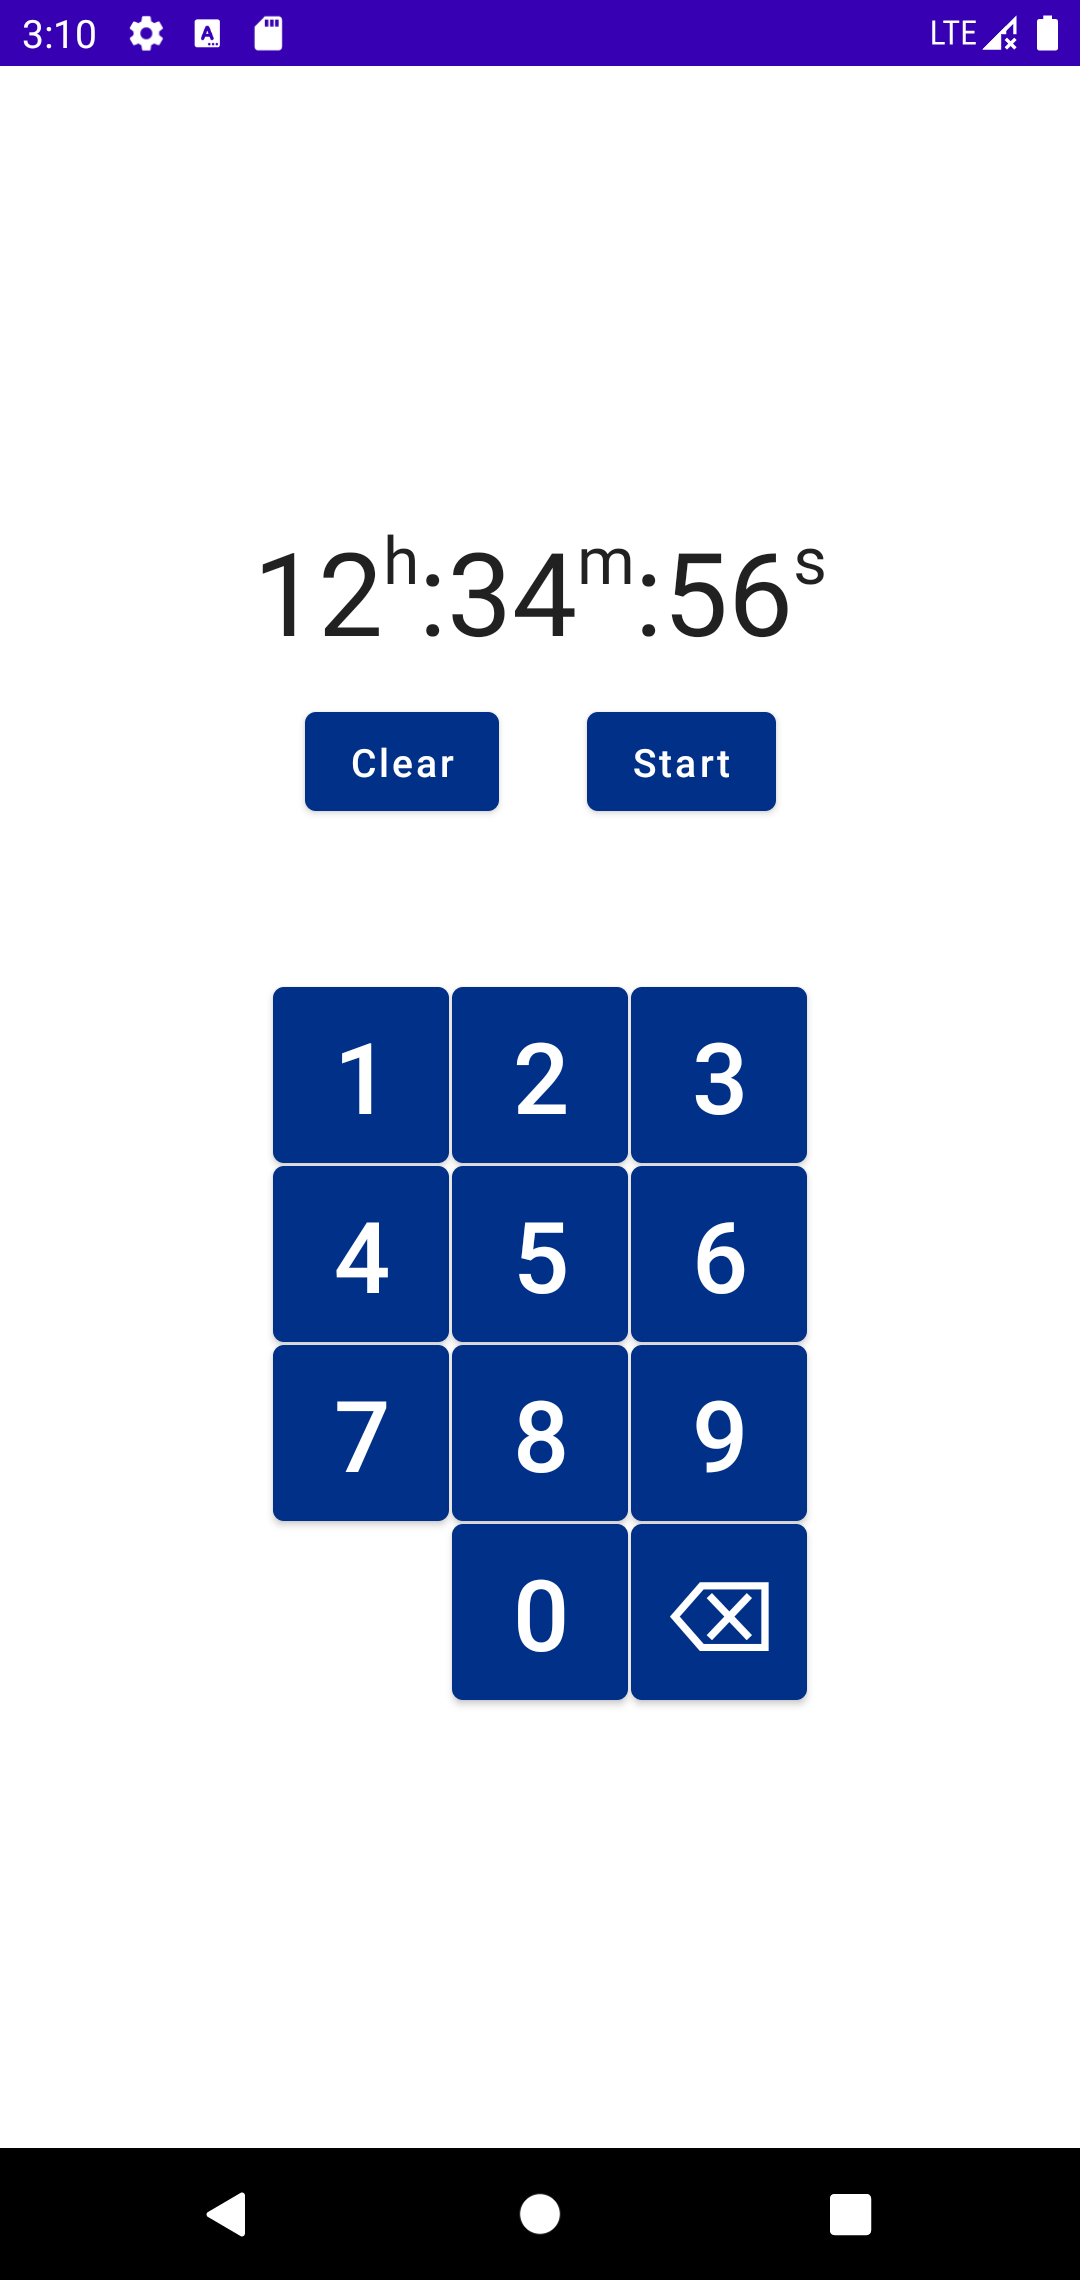
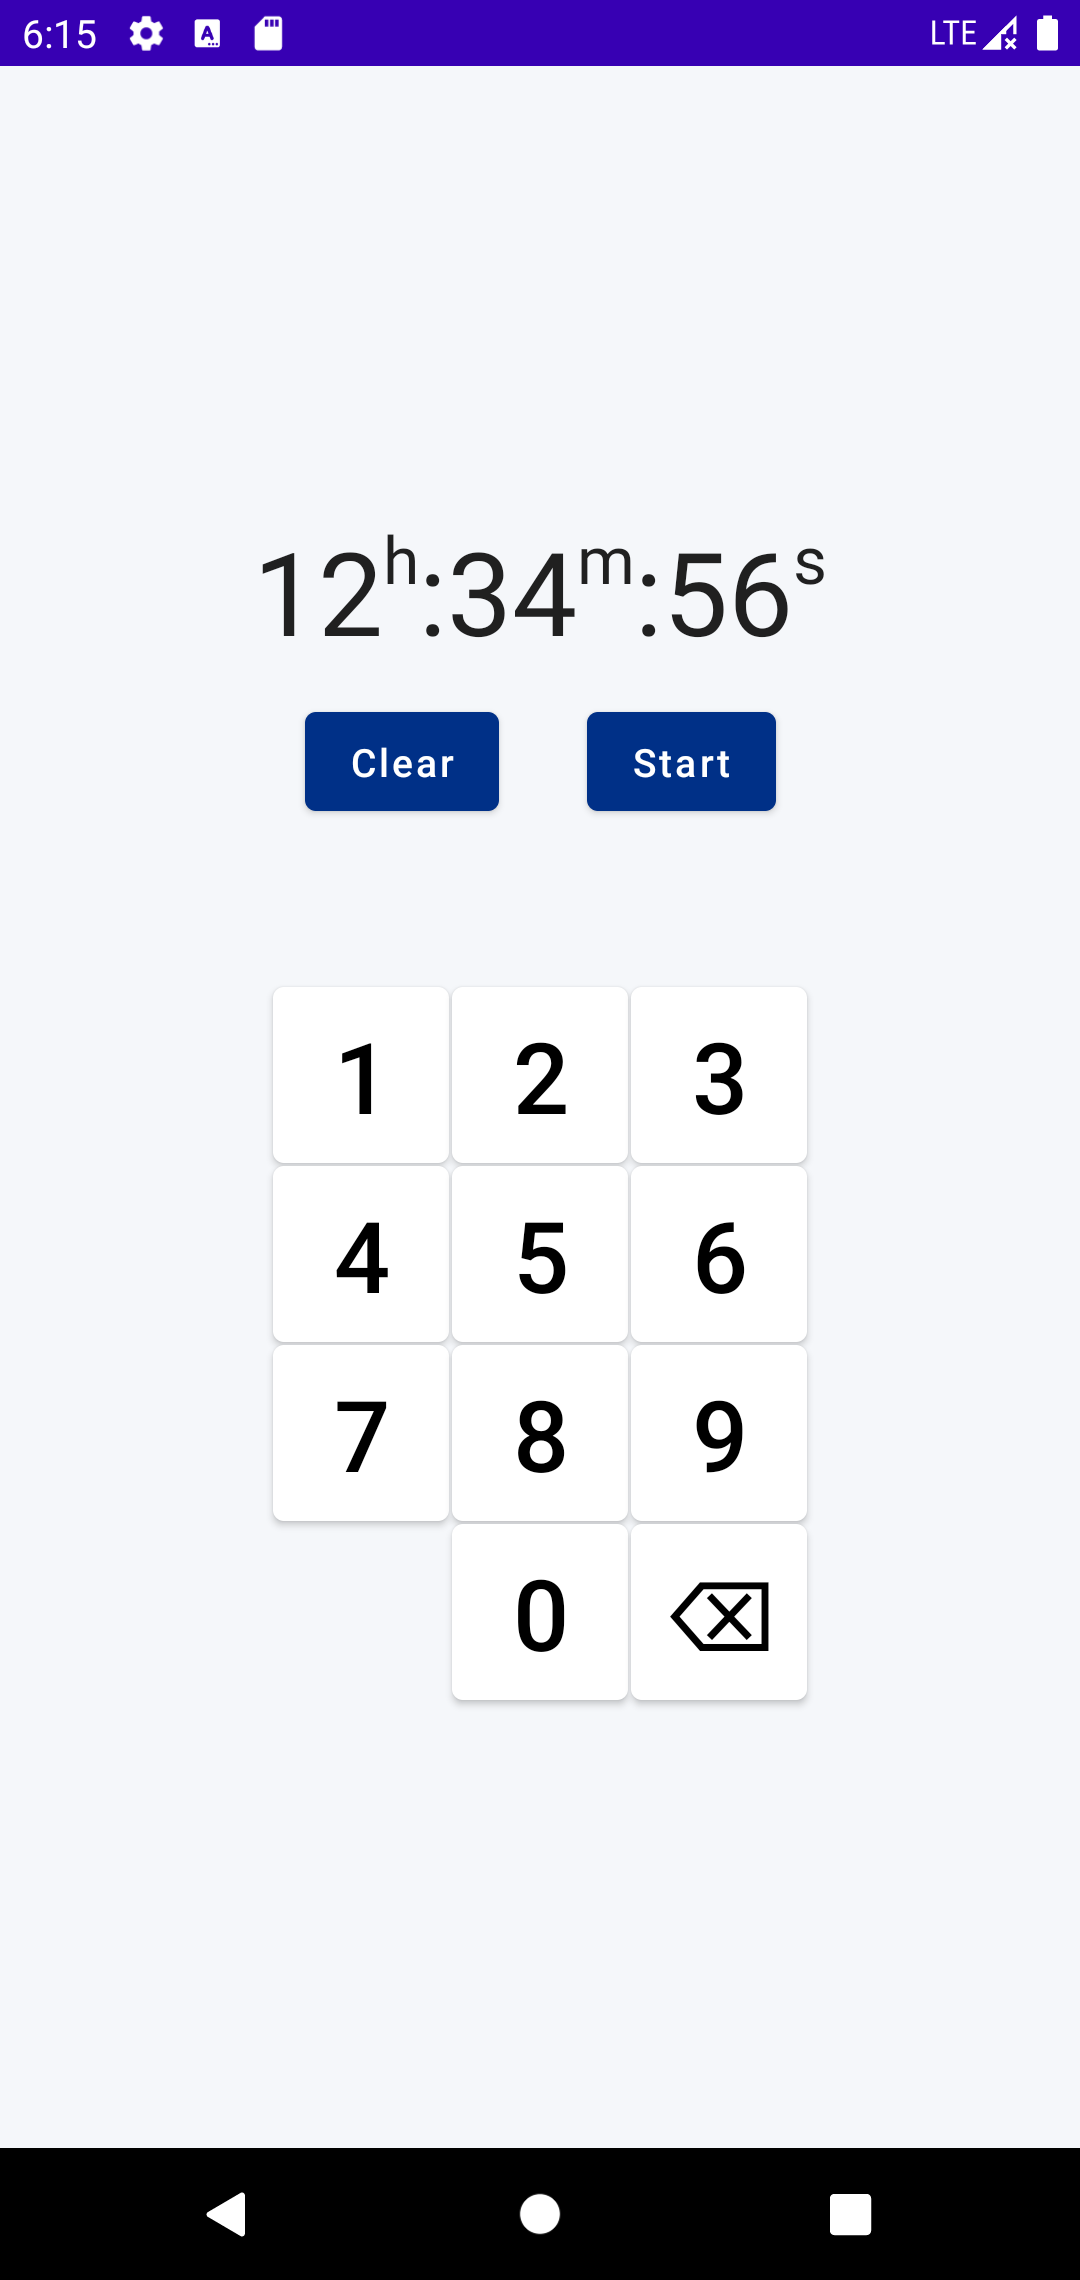
updated background colors

Changed region(s): [[0.2444, 0.436, 0.7639, 0.7474], [0.0611, 0.0, 0.0917, 0.0311]]

diff --git a/app/src/main/java/com/example/androiddevchallenge/Keypad.kt b/app/src/main/java/com/example/androiddevchallenge/Keypad.kt
@@ -24,6 +24,7 @@ import androidx.compose.foundation.layout.height
 import androidx.compose.foundation.layout.size
 import androidx.compose.foundation.layout.width
 import androidx.compose.material.Button
+import androidx.compose.material.ButtonDefaults
 import androidx.compose.material.MaterialTheme
 import androidx.compose.material.Surface
 import androidx.compose.material.Text
@@ -99,6 +100,7 @@ private fun Key(
     onClick = onClick,
     modifier = Modifier.size(64.dp, 64.dp),
     enabled = enabled,
+    colors = ButtonDefaults.buttonColors(backgroundColor = MaterialTheme.colors.surface),
     contentPadding = PaddingValues(
         start = 0.dp,
         top = 0.dp,

diff --git a/app/src/main/java/com/example/androiddevchallenge/ui/theme/Theme.kt b/app/src/main/java/com/example/androiddevchallenge/ui/theme/Theme.kt
@@ -30,7 +30,8 @@ private val DarkColorPalette = darkColors(
 private val LightColorPalette = lightColors(
     primary = blue800,
     primaryVariant = blue500,
-    secondary = teal200
+    secondary = teal200,
+    background = grey100
 )
 
 @Composable

diff --git a/app/src/main/java/com/example/androiddevchallenge/ui/theme/Color.kt b/app/src/main/java/com/example/androiddevchallenge/ui/theme/Color.kt
@@ -21,3 +21,4 @@ val blue200 = Color(0XFFE4F1FB)
 val blue500 = Color(0XFF009CDE)
 val blue800 = Color(0XFF003087)
 val teal200 = Color(0xFF03DAC5)
+val grey100 = Color(0xFFF5F7FA)
